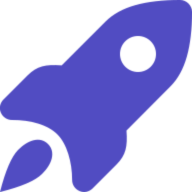
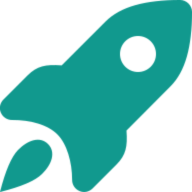
Change site design after New Year

diff --git a/index.html b/index.html
@@ -3,32 +3,32 @@
 <html lang="ru">
   <head>
     <meta charset="utf-8">
-    <meta name="description" content="Заказываем праздничные медовые пряники ручной работы в качестве эксклюзивного подарка!">
+    <meta name="description" content="Заказываем праздничные медовые пряники ручной работы в качестве эксклюзивного подарка в Калининграде!">
     <meta name="viewport" content="width=device-width,initial-scale=1,maximum-scale=1,user-scalable=no">
     <meta property="og:type" content="website">
     <meta property="og:site_name" content="tortello.ru">
     <meta property="og:image" content="images/ogimage.png">
-    <meta name="theme-color" content="#59d1d3">
+    <meta name="theme-color" content="#38ef7d">
     <title>
       Медовые пряники в Калининграде на заказ !
     </title>
-    <link rel="apple-touch-icon" sizes="180x180" href="images/apple-touch-icon-180x180.png?v=1636228139">
-    <link rel="icon" type="image/png" sizes="256x256" href="images/android-chrome-256x256.png?v=1636228139">
-    <link rel="icon" type="image/png" sizes="192x192" href="images/android-chrome-192x192.png?v=1636228139">
-    <link rel="icon" type="image/png" sizes="150x150" href="images/mstile-150x150.png?v=1636228139">
-    <link rel="icon" type="image/png" sizes="32x32" href="images/favicon-32x32.png?v=1636228139">
-    <link rel="icon" type="image/png" sizes="16x16" href="images/favicon-16x16.png?v=1636228139">
+    <link rel="apple-touch-icon" sizes="180x180" href="images/apple-touch-icon-180x180.png?v=1644571804">
+    <link rel="icon" type="image/png" sizes="256x256" href="images/android-chrome-256x256.png?v=1644571804">
+    <link rel="icon" type="image/png" sizes="192x192" href="images/android-chrome-192x192.png?v=1644571804">
+    <link rel="icon" type="image/png" sizes="150x150" href="images/mstile-150x150.png?v=1644571804">
+    <link rel="icon" type="image/png" sizes="32x32" href="images/favicon-32x32.png?v=1644571804">
+    <link rel="icon" type="image/png" sizes="16x16" href="images/favicon-16x16.png?v=1644571804">
     <link rel="manifest" href="manifest.json">
-    <link rel="mask-icon" href="images/safari-pinned-tab.svg" color="#59d1d3">
+    <link rel="mask-icon" href="images/safari-pinned-tab.svg" color="#38ef7d">
     <link rel="preconnect" href="https://fonts.gstatic.com/" crossorigin="">
     <link rel="stylesheet" href="https://fonts.googleapis.com/css?family=Ubuntu:300,400,500,700&amp;display=swap&amp;amp;subset=cyrillic,cyrillic-ext,latin-ext">
     <style type="text/css">
     :root {
-        --gradient: linear-gradient(to bottom, #59d1d3 0%, #514cc2 100%);
+        --gradient: linear-gradient(to bottom, #38ef7d 0%, #11998e 100%);
         --dark-color: #303030;
         --code-bg: #282c34;
-                            --main-color: #514cc2;
-            --main-color-transparent: #514cc226;
+                            --main-color: #11998e;
+            --main-color-transparent: #11998e26;
             --mockup-color: rgba(255, 255, 255, 0.3);
             }
     </style>
@@ -54,10 +54,10 @@
         <section class="main__content">
           <div class="main__heading">
             <h1 class="main__title">
-              Готовимся к&nbsp;Новому году !&nbsp;<br>
+              Порадуйте своих близких на&nbsp;грядущих праздниках !&nbsp;<br>
             </h1>
             <p class="main__subtitle">
-              Заказываем праздничные медовые пряники ручной работы в&nbsp;качестве эксклюзивного подарка в Калининграде!<br>
+              Заказывайте праздничные медовые пряники ручной работы в&nbsp;качестве эксклюзивного подарка!<br>
             </p>
           </div>
         </section>
